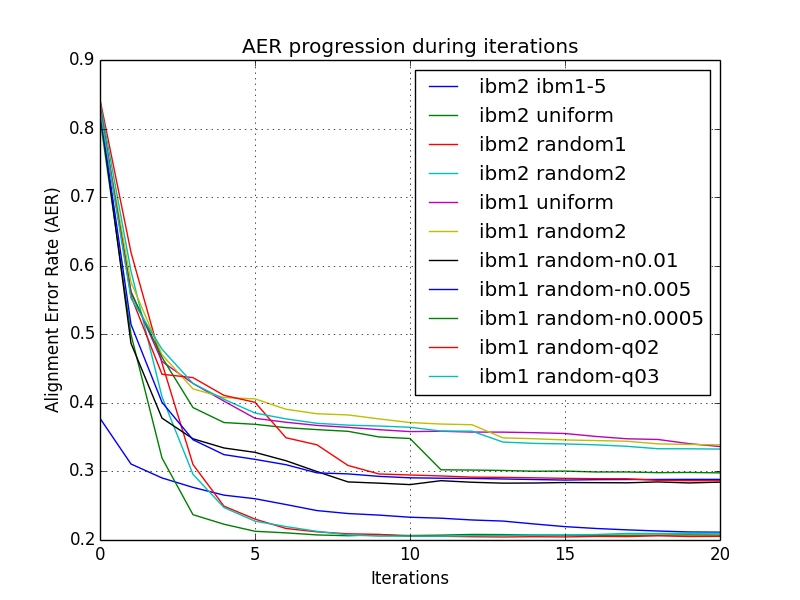
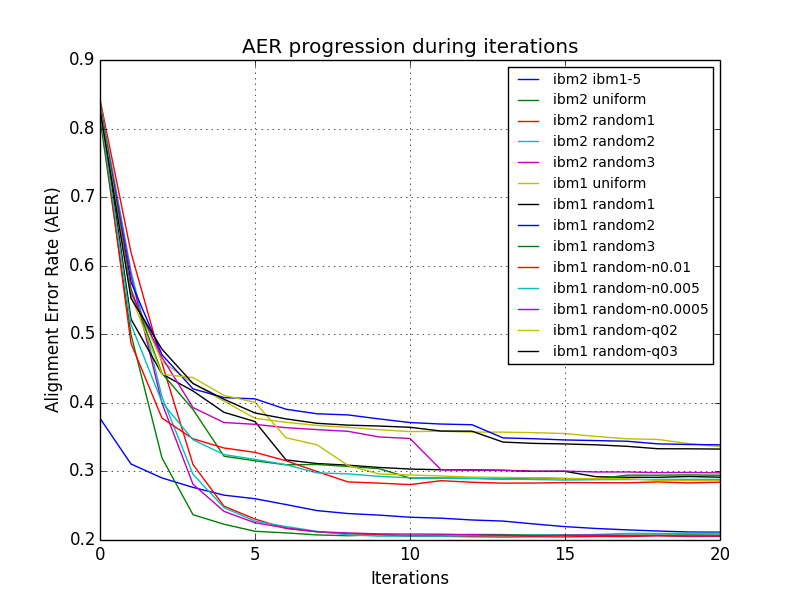
Changed legend size

diff --git a/src/graph.py b/src/graph.py
@@ -52,11 +52,11 @@ def main():
         path.join(data_path, 'model', 'ibm2', 'uniform'),
         path.join(data_path, 'model', 'ibm2', 'random1'),
         path.join(data_path, 'model', 'ibm2', 'random2'),
-        # path.join(data_path, 'model', 'ibm2', 'random3'),
+        path.join(data_path, 'model', 'ibm2', 'random3'),
         path.join(data_path, 'model', 'ibm1', 'uniform'),
-        # path.join(data_path, 'model', 'ibm1', 'random1'),
+        path.join(data_path, 'model', 'ibm1', 'random1'),
         path.join(data_path, 'model', 'ibm1', 'random2'),
-        # path.join(data_path, 'model', 'ibm1', 'random3'),
+        path.join(data_path, 'model', 'ibm1', 'random3'),
         path.join(data_path, 'model', 'ibm1', 'random-n0.01'),
         path.join(data_path, 'model', 'ibm1', 'random-n0.005'),
         path.join(data_path, 'model', 'ibm1', 'random-n0.0005'),
@@ -98,7 +98,7 @@ def plot_likelihoods(all_models):
     for (name, model_data) in all_models:
         legends.append(name)
         plt.plot(range(1, 21), [iteration_data[2] for iteration_data in model_data if iteration_data[2] != 0])
-    plt.legend(legends, loc='lower right')
+    plt.legend(legends, loc='lower right', prop={'size':10})
     plt.xlabel('Iterations')
     plt.ylabel('Log-likelihood')
     plt.title('Log-likelihood progression during iterations')
@@ -112,7 +112,7 @@ def plot_aer(all_models):
     for (name, model_data) in all_models:
         legends.append(name)
         plt.plot(range(0, 21), [iteration_data[9] for iteration_data in model_data])
-    plt.legend(legends, loc='upper right')
+    plt.legend(legends, loc='upper right', prop={'size':10})
     plt.xlabel('Iterations')
     plt.ylabel('Alignment Error Rate (AER)')
     plt.title('AER progression during iterations')
@@ -126,7 +126,7 @@ def plot_precision(all_models):
     for (name, model_data) in all_models:
         legends.append(name)
         plt.plot(range(0, 21), [iteration_data[6] for iteration_data in model_data])
-    plt.legend(legends, loc='lower right')
+    plt.legend(legends, loc='lower right', prop={'size':10})
     plt.xlabel('Iterations')
     plt.ylabel('Precision')
     plt.title('Precision progression during iterations')
@@ -140,7 +140,7 @@ def plot_recall(all_models):
     for (name, model_data) in all_models:
         legends.append(name)
         plt.plot(range(0, 21), [iteration_data[7] for iteration_data in model_data])
-    plt.legend(legends, loc='lower right')
+    plt.legend(legends, loc='lower right', prop={'size':10})
     plt.xlabel('Iteration')
     plt.ylabel('Recall')
     plt.title('Recall progression during iterations')
